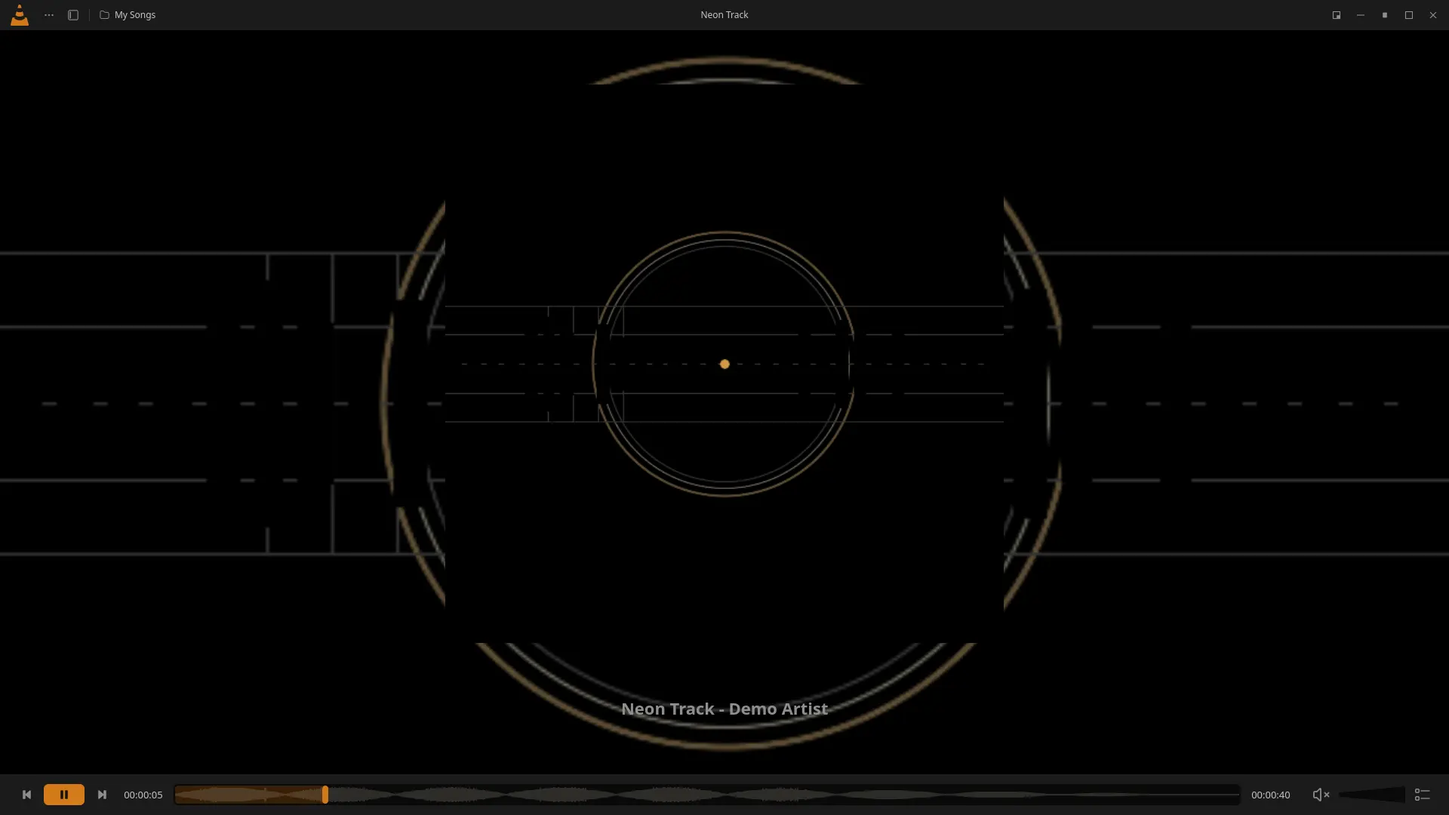
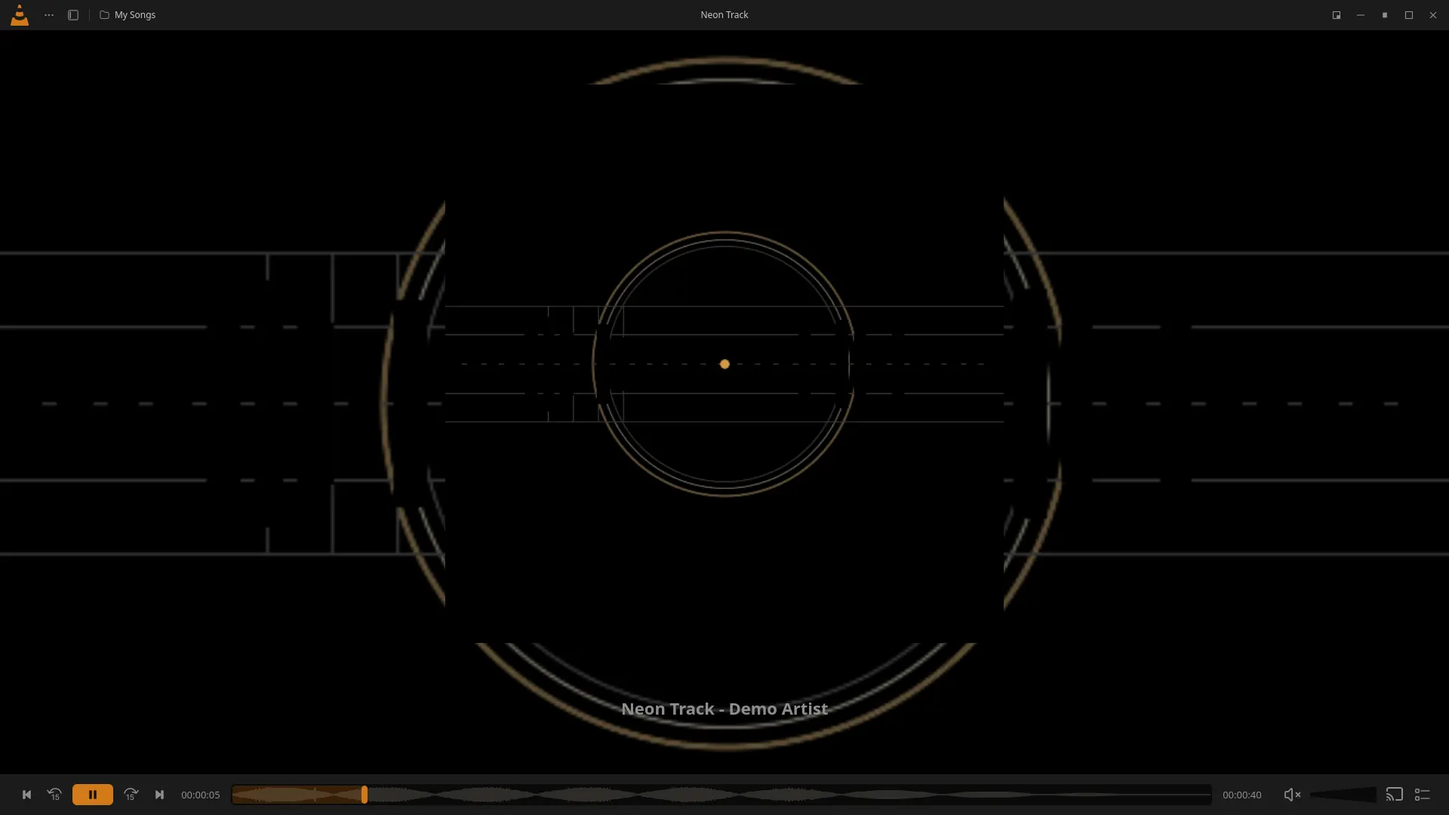
feat: show Figma music seek controls

Changed region(s): [[0.0312, 0.9472, 0.375, 1.0], [0.4062, 0.9778, 0.4688, 1.0], [0.8438, 0.9472, 0.875, 0.9778]]

diff --git a/qml/ControlBar.qml b/qml/ControlBar.qml
@@ -7,6 +7,14 @@ Rectangle {
     property var items: Theme.layoutList()
     property var renderedItems: {
         const result = items.slice()
+        if (player.hasMedia && !player.hasVideo) {
+            const previousIndex = result.indexOf("prev")
+            if (previousIndex >= 0 && result.indexOf("back15") < 0)
+                result.splice(previousIndex + 1, 0, "back15")
+            const playIndex = result.indexOf("play")
+            if (playIndex >= 0 && result.indexOf("fwd15") < 0)
+                result.splice(playIndex + 1, 0, "fwd15")
+        }
         let insertAt = result.indexOf("next")
         if (insertAt >= 0) insertAt += 1
         else insertAt = result.indexOf("play") >= 0 ? result.indexOf("play") + 1 : 0

diff --git a/qml/singletons/NeoTheme.qml b/qml/singletons/NeoTheme.qml
@@ -37,8 +37,8 @@ QtObject {
         frame: { label: "Next Frame", icon: "chevron-right" },
         back10: { label: "Backward 10s", icon: "rewind" },
         fwd10: { label: "Forward 10s", icon: "fast-forward" },
-        back15: { label: "Backward 15s", icon: "rewind" },
-        fwd15: { label: "Forward 15s", icon: "fast-forward" },
+        back15: { label: "Backward 15 seconds", icon: "backward-15-sec" },
+        fwd15: { label: "Forward 15 seconds", icon: "forward-15-sec" },
         bookmark: { label: "Bookmark", icon: "bookmark" },
         chapters: { label: "Chapters", icon: "list-video" },
         rightsidebar: { label: "Right Sidebar", icon: "sidebar-right" },

diff --git a/docs/figma-parity.md b/docs/figma-parity.md
@@ -62,7 +62,7 @@ The video canvas background uses Figma charcoal `#2C2B29` in both themes. Video 
 | Figma frame(s) and node IDs | Intent and shown states | VLC Neo components and current state | Automated evidence | Manual acceptance check |
 |---|---|---|---|---|
 | **Player** — `187:328`, `970:3308`, `970:3792`, `970:2703`, `970:4028`, `6261:15078`, `247:445` | Main playback surface and its seven visual states. The metadata names all seven `Player`; node `6261:15078` is the Home library dashboard and `187:328` shows the Playlists navigation state. | `Main.qml`, `HomeView.qml`, `LibraryPanel.qml`, `PlaylistsPanel.qml`, `NavigationRail.qml`, `TopBar.qml`, `TimelineBar.qml`, `ControlBar.qml`, `SidePanel.qml`, `ControlItem.qml`, `PlayButton.qml`, `SeekBar.qml`, `ConeVolume.qml`, `ResumePill.qml`. Home opens a full library dashboard with Continue Watching video cards, indexed Listen Again music, and frequently visited indexed folders. Video cards use asynchronous VLC-decoded thumbnails and saved resume point/duration data; music cards show indexed cover art and open the selected track. The dashboard keeps the expanded rail, app title and home search toolbar while hiding playback controls. The persistent rail matches the Figma Home navigation labels and order: Home, Videos, Music, Network, Playlists, Recent and Add item. Selecting Home, Videos, Music, Playlists or Recent from the rail opens that view in a side pane beside the live player. The topbar Library control opens the Figma Home dashboard in that pane and toggles the entire rail and pane closed together, restoring the previous player or library context. The compact Home pane uses Figma-sized thumbnail rows for Continue Watching, Listen Again, visited folders and playlists. The dedicated expand action opens the full-page library, where the rail expands and the playback surface becomes the mini-player. Folder browsing remains available from the Videos library and file picker. Saved M3U, M3U8, PLS and XSPF files appear in a persistent Playlists pane; it can search, sort, change row density and play an entry. Its width scales with the player window to retain the Figma proportion from the default size to the 1920 px reference frame. The pane stays beside the live video, matching the layout in node `187:328`. The rail scales up to 210 px on wide windows, matching the folder-browser state in node `970:3308`. The browser toggles between the Figma five-column poster grid (`970:2703`) and four-column file list (`970:3792`); the mini-player moves to the lower-right in grid mode and lower-left in list mode, and grid thumbnails show saved/current playback progress. Opening a library view replaces the playback surface with a full-width local folder browser and hides the bottom transport bar; video files load asynchronous VLC-decoded thumbnails in the grid, the live video frame moves into a floating player card, and search filters filenames. Rail, track-picker, settings-panel, transport and icon controls support Tab focus and Space/Return activation with visible focus styling. The timeline and transport now share a single 54 px footer row, with the seek bar between Next and Volume; elapsed and duration labels are 64 px at desktop size, 48 px in compact windows and hidden in 320–399 px PiP while seeking remains available. This follows the one-row composition in Figma node `247:445`; preexisting saved layouts that included `time`, `seek` or `length` are migrated out of the movable control list. Compact windows retain reduced spacing. The seek bar supports Tab focus, Left/Right seeking and Home/End jumps, subtitle cue lookup, asynchronous local-video thumbnails and an audio waveform for local media. VLC decodes both off the UI thread, limited to two workers and 64 admitted thumbnail responses, with results held in a 16 MiB LRU cache; `bounded_image_cache_test` verifies the configured cost ceiling and least-recently-used eviction. Closing the UI cancels worker subprocesses and drains queued decoding before Qt image plugins tear down. Waveform extraction times out after 20 seconds on slow files. Track-picker geometry follows its button anchor and stays within the window when resized. The Video side panel previews the current frame as Original, Sepia, Invert, Posterize, Old movie, Gaussian blur, Sharpen, VHS and Grain; one VLC-decoded frame feeds all nine previews asynchronously through the bounded thumbnail cache. Selecting a tile updates VLC’s live `video-filter` chain and preserves unrelated filters. Focused real-VLC coverage confirms all nine previews load and the four additional filters apply while preserving the picture-adjustment filter. PiP switches to a compact 16:9 window, keeps its title clear at 320×180, shows only exit and quit in the top bar, requests always-on-top through Qt and additionally pins it through Hyprland, and restores the prior size and position (or maximized state) when the PiP exit button is clicked. Plain video playback hides the navigation rail and aligns the top and bottom bars to the left edge, matching `247:445`; Home, library and side-panel states show the rail. An idle folder browser omits the mini-player, matching `970:4028`. The TopBar uses the onboarding chrome layer only for the non-preview welcome/shortcut steps; in the theme preview and normal player it remains under `keyCatcher`, where its left inset accounts for the navigation rail. Smoke asserts both the 18 px theme-preview inset and the rail-width offset on the Playlists screen, covering the previous cross-parent anchor warning. The seven Player nodes listed here have now been compared at 1920×1080. Figma icon aliases are now checked against the canonical SVG resources directly: the icon test opens every alias target from the Figma resource bundle and compares its rendered pixels with the alias output; all 207 checksum-manifest entries (206 SVGs plus the index) match the pinned export commit. **Partial.** smoke coverage now verifies hover colors and focus rings for the transport and all 25 optional controls. Review artwork and waveform quality across varied real media, and always-on-top behavior under Hyprland. F11 now reaches a 1920×1080 fullscreen surface under Metacity on Xvfb; moving to the bottom edge reveals the timeline and controls, and exiting restores the 1120×680 window. A live XCB run on the 1920×1080 eDP-1 display confirmed fullscreen entry and tested both fullscreen-control preferences: controls stay visible when enabled; when disabled, chrome hides and a bottom-edge pointer event reveals it with the single-row 54 px footer. The toolbar layout was compared with Figma node `247:445`; its rail-free player frame, title bar and lower controls align. The one-hour test capture confirms that a ten-minute fade remains visible across the full timeline. A focused run on [Thoughtness.ogg](https://commons.wikimedia.org/wiki/File:Thoughtness.ogg), a 46-second CC0 song, loaded and displayed its varied musical waveform in VLC. A separate ten-minute FFmpeg-generated MP3 with five known amplitude sections displayed the expected quiet, loud, silent, medium and loud blocks; additional music genres remain to review. Fullscreen edge-reveal on a real display is now covered. | Smoke checks the timeline slot between Next and Volume inside the 54 px footer, its keyboard focus and Left/Right seeking, Home to start, End to playback end, pointer hover on the visible Player timeline requesting and decoding a local-video preview, asynchronous waveform decoding, and a one-hour audio waveform with a ten-minute fade. At 560×340 it also checks the compact labels, seek width and keyboard navigation; at 320×180 PiP it checks labels collapse while seeking remains enabled. Focused offscreen probes independently pass at 560×340 (`compact=true`, keyboard focus and Right seek beyond 5 s) and 320×180 PiP (transport/seek remain enabled and inside the window). The Light sidebar density probe decodes all 15 local thumbnails and reports 15 ready entries at 1920×1080 (`sidebarLayout=15/384/true`, `ready=15`; about 18 seconds). It also checks Home shelves, search and sort, compact-card mode, video-card playback, persisted resume progress, responsive layout and a decoded thumbnail at 1920×1080, playback-frame rail hiding and chrome alignment, an idle full-width folder browser without the mini-player, library indexing, playback, duration, next item and pause/resume. It focuses and activates video/recent side navigation, checks full-page folder browsing through the dedicated expand action, hidden bottom transport controls, the live mini-player and filename search, verifies a VLC-decoded folder thumbnail, toggles grid/list layout and mini-player corner placement at 1120 and 1920 px, saves an M3U8 into the persistent playlist folder, reopens the playlist view, filters a playlist name and verifies density/sort/width controls. It verifies PiP shrinks the window to 320×180 and restores its exact prior geometry. At 1120 and 1920 px it checks the rail and Playlists pane preserve their combined width ratio. It also checks popup dismissal/repositioning, clicks the Sepia and Original video-effect tiles while preserving the active picture-adjust filter, applies Gaussian blur, Sharpen, VHS and Grain through VLC while retaining adjustment, and waits for all nine asynchronous effect previews to load, and captures dark, light, compact, settings, timeline, expanded-navigation and Home/library/playlist states. The thumbnail provider smoke also submits 30 simultaneous requests (above its 24-job bound) and checks that every image eventually decodes without an error.| The refreshed [`player.webp`](screenshots/player.webp) is a 1920×1080 capture using the attributed MDN CC0 flower video; its timeline and transport share one 54 px footer row. At 1920×1080, visual comparisons now cover all seven listed Player nodes: `187:328` (playlist pane), `970:3308` (folder browser), `970:3792` (compact file list), `970:2703` (poster grid), `970:4028` (idle browser), `6261:15078` (Home) and `247:445` (player with hidden rail). The fresh 110-item compact-list capture matches node `970:3792` in four-column layout, 44 px row pitch, small decoded thumbnails and lower-left mini-player placement. A fresh comparison of node `970:2703` with the latest `folder-browser-grid-1920.png` confirms the 1920×1080 viewport, 210 px rail, header/tool row, five-column card sizing and lower-right mini-player placement. The smoke fixture contains only two generated clips rather than the reference’s 110 named episodes and poster artwork, so content-level poster parity remains open. The `187:328` playlist pane and bottom controls were also checked at 1920×1080 with the pointer revealing the controls; the combined rail and pane width follows the Figma proportion. The fullscreen toolbar was compared with node `247:445` during a live 1920×1080 XCB run on eDP-1; both fullscreen preference states and bottom-edge reveal were verified. XCB captures at 1920×1080 show the playlist Search tooltip on hover and a one-pixel accent focus ring on a rail button; the earlier 1120×680 capture shows the Playback Settings tooltip and focus ring. The full smoke run verifies hover colors and focus rings for the transport and all 25 optional controls; VLC-backed actions are exercised for Favorite, Thumbnail, Properties, Bookmarks and Replay. A focused run loaded all nine effect previews from the public [MDN CC0 flower clip](https://interactive-examples.mdn.mozilla.net/media/cc0-videos/flower.mp4); [`video-effects-flower.webp`](screenshots/video-effects-flower.webp) records the color-rich live frame and distinct effect tiles. Remaining visual checks: always-on-top behavior under Hyprland, plus waveform rendering on additional long-form tracks and genres. A live PiP run on the Cinnamon/Muffin desktop exposed `_NET_WM_STATE_ABOVE` and placed the 480×270 window at the expected lower-right corner. Hyprland-specific pinning still needs verification. |
-| **Player - Music** — `4767:23726`, `4778:25123` | Audio-focused player with artwork, “My Songs”, track title and a continue-watching state. | `MusicView.qml`, `LibraryPanel.qml`, `src/media_library.*`, `Main.qml`. Audio files from indexed folders are scanned asynchronously; TagLib reads title, artist, album, genre, duration and embedded cover art. SQLite persists the catalog and roots; case-folded search spans tags and file paths. Tracks, albums, artists and genres are browseable; opening an album, artist or genre lists its tracks. Folder removal and full catalog clearing remove database entries and unreferenced cached art. On the 1920×1080 Figma frame the sharp cover is 740×740 px, with a 72 px title gap and 22 px muted label; the cover scales down in compact windows. Title and artist share one line, with a darkened, full-window blurred copy of the cover behind the sharp artwork. The top bar shows “My Songs” during audio playback; clicking it toggles a 280–380 px music sidebar while playback stays visible. At 1920 px, the Songs/My Songs pane is 377 px wide, matching the Figma frame. The audio-only control bar has the Figma visualizer menu, which caps its height to the available window and scrolls its options in compact layouts. Its choices persist VLC's `audio-visual` and `effect-list` options and update the active VLC audio output, with Waveform mapped to VLC's `vuMeter` effect. **Partial.** A direct browser inspection confirms both Figma screen frames are flattened image fills; the circular visualization is part of the reference artwork, not an editable vector layer. The current `music.webp` is refreshed from the latest full smoke capture. Its layout was compared at 1920×1080: the 740 px square cover, 72 px title gap, one-row footer and metadata placement align. The local test track and artwork differ from the reference image. The shipped VLC visualizer remains live and user-selected, but uses VLC's native rendering style. | Smoke indexes tagged local audio, confirms metadata/artwork, case-insensitive tag search, filename fallback for missing tags, album grouping, artists/genres/videos, persistence after relaunch, and clearing database rows and artwork. A live offscreen run indexed the local music folder, captures the sidebar beside audio playback, confirms the second click closes it, checks that the displayed item count follows visible music tracks rather than indexed files, and checks the 740 px Figma artwork, title gap and label typography plus compact resizing. The visualizer popup tests all four effect mappings, Disabled, trigger toggling and outside-click dismissal. A focused VLC run confirmed all four modes create the active visualizer output during playback and Disabled stops it. A compact-window runtime check confirmed entering the 180 px PiP layout dismisses the transient popup and constrains its scroll viewport to the available height. A focused real-VLC offscreen capture confirms the blurred cover backdrop renders behind the sharp artwork. The music-player smoke capture waits for asynchronous waveform extraction and uses a time-varying audio fixture with the authored dark visualizer-style cover in `tests/fixtures/music-cover.png`; its screenshot visibly contains the decoded waveform bars.| Captures of both Figma nodes were reviewed in the local browser. The 1920×1080 music-library sidebar was compared against node `4778:25123`; the 740 px cover, 72 px title gap and muted label size match the Figma measurements, and the waveform is visible after decoding. The sidebar count now tracks visible music-model rows; the real-VLC scenario confirms it shows `3 items` for three audio tracks alongside a cover image, matching the model rather than the four indexed files. A refreshed 1920×1080 real-VLC capture shows the authored visualizer-style cover fixture and its decoded waveform. The Figma artwork is a flattened raster composition, so its baked circular visualization cannot be independently compared with VLC's native live visualizer. Separate VLC Neo integration runs read title/artist/album/genre from MP3, FLAC, Ogg and M4A, used the filename for an untagged WAV, and removed stale paths after a media rename and removal on rescan. Embedded covers from MP3, FLAC and M4A produced the same SHA-256 as the source image. A local run indexed 5,000 M4A paths: adding the root returned in 14 ms and the scan completed in under 9 seconds on this machine. |
+| **Player - Music** — `4767:23726`, `4778:25123` | Audio-focused player with artwork, “My Songs”, track title and a continue-watching state. | `MusicView.qml`, `LibraryPanel.qml`, `src/media_library.*`, `Main.qml`. Audio files from indexed folders are scanned asynchronously; TagLib reads title, artist, album, genre, duration and embedded cover art. SQLite persists the catalog and roots; case-folded search spans tags and file paths. Tracks, albums, artists and genres are browseable; opening an album, artist or genre lists its tracks. Folder removal and full catalog clearing remove database entries and unreferenced cached art. On the 1920×1080 Figma frame the sharp cover is 740×740 px, with a 72 px title gap and 22 px muted label; the cover scales down in compact windows. Title and artist share one line, with a darkened, full-window blurred copy of the cover behind the sharp artwork. The top bar shows “My Songs” during audio playback; clicking it toggles a 280–380 px music sidebar while playback stays visible. At 1920 px, the Songs/My Songs pane is 377 px wide, matching the Figma frame. The audio-only control bar has the Figma visualizer menu, which caps its height to the available window and scrolls its options in compact layouts. Its choices persist VLC's `audio-visual` and `effect-list` options and update the active VLC audio output, with Waveform mapped to VLC's `vuMeter` effect. The audio-only transport inserts Figma’s 15-second backward and forward buttons around Play, unless the user already placed those controls in their saved layout; both use the exact exported SVGs and invoke VLC seeking. Video playback keeps the normal three transport buttons. **Partial.** A direct browser inspection confirms both Figma screen frames are flattened image fills; the circular visualization is part of the reference artwork, not an editable vector layer. The current `music.webp` is refreshed from the latest full smoke capture. Its layout was compared at 1920×1080: the 740 px square cover, 72 px title gap, one-row footer and metadata placement align. The local test track and artwork differ from the reference image. The shipped VLC visualizer remains live and user-selected, but uses VLC's native rendering style. | Smoke indexes tagged local audio, confirms metadata/artwork, case-insensitive tag search, filename fallback for missing tags, album grouping, artists/genres/videos, persistence after relaunch, and clearing database rows and artwork. A live offscreen run indexed the local music folder, captures the sidebar beside audio playback, confirms the second click closes it, checks that the displayed item count follows visible music tracks rather than indexed files, and checks the 740 px Figma artwork, title gap and label typography plus compact resizing. The visualizer popup tests all four effect mappings, Disabled, trigger toggling and outside-click dismissal. A focused VLC run confirmed all four modes create the active visualizer output during playback and Disabled stops it. A compact-window runtime check confirmed entering the 180 px PiP layout dismisses the transient popup and constrains its scroll viewport to the available height. The music smoke checks the exact `Previous, −15s, Play, +15s, Next` order and exported icon names. Focused real-VLC playback probes confirm the forward control seeks to about 16 s, the backward control returns to about 1 s, and video mode does not inject either button. A focused real-VLC offscreen capture confirms the blurred cover backdrop renders behind the sharp artwork. The music-player smoke capture waits for asynchronous waveform extraction and uses a time-varying audio fixture with the authored dark visualizer-style cover in `tests/fixtures/music-cover.png`; its screenshot visibly contains the decoded waveform bars.| Captures of both Figma nodes were reviewed in the local browser. The 1920×1080 music-library sidebar was compared against node `4778:25123`; the 740 px cover, 72 px title gap and muted label size match the Figma measurements, and the waveform is visible after decoding. The sidebar count now tracks visible music-model rows; the real-VLC scenario confirms it shows `3 items` for three audio tracks alongside a cover image, matching the model rather than the four indexed files. A refreshed 1920×1080 real-VLC capture shows the authored visualizer-style cover fixture and its decoded waveform. A fresh local capture confirms the 15-second seek buttons sit around Play at the same 1920×1080 positions as the Figma frame, using the `backward-15-sec` and `forward-15-sec` exports. The Figma artwork is a flattened raster composition, so its baked circular visualization cannot be independently compared with VLC's native live visualizer. Separate VLC Neo integration runs read title/artist/album/genre from MP3, FLAC, Ogg and M4A, used the filename for an untagged WAV, and removed stale paths after a media rename and removal on rescan. Embedded covers from MP3, FLAC and M4A produced the same SHA-256 as the source image. A local run indexed 5,000 M4A paths: adding the root returned in 14 ms and the scan completed in under 9 seconds on this machine. |
 | **Player - hide UI** — `3328:11554` | Video view with interface controls hidden. | `Main.qml`, `TopBar.qml`, `ControlBar.qml`. Ctrl+H hides the top bar, navigation rail, home screen and bottom controls, including when no media is loaded. Moving to the top edge reveals the header; moving to the bottom edge reveals transport controls; returning to the center hides them again. The Figma frame shows a decorative pixel-art cat as its video content; Neo leaves the active video visible. **Implemented.** | Smoke verifies the empty and playing states, checks top- and bottom-edge reveal plus center hide, and captures a 1920×1080 frame with OSD and title overlays disabled. The test assertions confirm all chrome flags are hidden after the pointer returns to the center, and that Ctrl+H suppresses its confirmation toast when hiding the interface.| Compared node `3328:11554` in the connected Figma browser. The 1920×1080 Xvfb/XCB capture shows the Sintel trailer while the title bar, controls and toast are absent. Direct comparison with the Figma frame confirms the full-screen hidden-chrome state; the visible difference is the active media content (Sintel versus Figma’s pixel-art cat). Sintel attribution and CC BY 3.0 are recorded in the README. |
 | **Player - Light** — `2425:13624` | Light player with a narrow folder list beside the live video. | `NeoTheme.qml`, `Main.qml`, `TopBar.qml`, `LibraryPanel.qml`. Clicking the video folder chip opens a responsive folder sidebar while video remains in the main surface; clicking it again closes the sidebar. The frame was compared in the browser at 1920×1080. Figma’s side pane measures 377 px; Neo now uses the same 19.635% proportion at standard and wide sizes, with a 220 px minimum for compact windows. Compact rows use small VLC-decoded video thumbnails even when the full browser is in grid mode; the sidebar no longer lets grid-card sizing overflow its 38 px rows. The compact folder header now uses a breadcrumb row followed by an item-count and sort/view/search toolbar; Play folder and Queue all stay in the full folder browser, and the existing pin action remains available in the compact toolbar. The toolbar and first file row were visually rechecked against the Figma frame after adjusting compact-only spacing. Search starts as an icon and expands into a field on demand; the full-width browser retains its search field. The light rail and title bar use Figma A3 at 75% opacity over the charcoal canvas; the sidebar uses B1 at 80%. [`player-light-sidebar.webp`](screenshots/player-light-sidebar.webp) shows the current implementation. **Partial.** the poster artwork is dynamic media content. A fresh 1920×1080 comparison measures the pane at 377 px; focused responsive probes measure 262 px at 1333 px and 220 px at 560×340, leaving 310 px for video in the compact window. Landscape, 4:3, portrait and square video rows stay within their fixed thumbnail bounds. | Full smoke verifies sidebar visibility, responsive width, decoded video thumbnails, collapsed/expanded search and filtering, pinning and navigation, closure, and compact-window usability. The latest completed CI run (`40811644836`) passed 849/849 real-VLC smoke assertions before this width adjustment; focused real-VLC geometry probes after the change verify 377/262/220 px at 1920/1333/560 px. The compact toolbar stays visible while Play folder and Queue all remain hidden there.| Reopened Figma node `2425:13624` in the authenticated browser and compared it with the local capture: the rail and pane widths, header and file-row start positions align. A fresh lossless XCB capture sampled the sidebar at RGB 194,194,193, matching Figma at the same light-gray panel fill; its blank video canvas sampled RGB 44,43,41, matching Figma charcoal `#2C2B29`. The earlier one-channel differences came from comparing against a lossy WebP capture, so no theme-token change was needed. A fresh fixture comparison contains 15 rows and reports 15/15 visible thumbnails ready; its test-pattern artwork differs from Figma. The refreshed 560×340 [`player-light-sidebar-compact.webp`](screenshots/player-light-sidebar-compact.webp) capture confirms a 220 px pane, 310 px video area, and visible compact toolbar and search. |
 | **Player - customize** — `2107:5604`, `2160:6137`, `2160:6564`, `2160:7005`, `2160:7437`, `2160:7869`, `6587:19923`, `2160:8301`, `2160:8732` | Nine separate visual states: the palette, multiple saved control-bar layouts with already-used items removed from the palette, and a folder-browser state with the customized bar. Figma frame captures for all nine have now been inspected; the last state (`2160:8732`) is the folder browser, not an open customization dialog. | `CustomizeDialog.qml`, `ControlItem.qml`, `ControlBar.qml`, `TimelineBar.qml`, `NeoTheme.qml`, `MediaPropertiesDialog.qml`. Palette has 30 supported Figma controls in a 9-column grid; the unsupported HDR action leaves one reserved empty slot at its Figma position, while Playlist Name displays the opened playlist filename; the 1060×666 dialog and compact tiles align with node `2107:5604`. At short window heights, the content scrolls above a fixed footer so profile actions stay reachable. The fixed timeline, elapsed time and duration stay outside the movable palette. Previously saved `time`, `seek` and `length` controls are filtered out during layout reads, preserving the rest of each user's layout. Previous, Play and Next remain fixed on the bar, cannot be removed, and cannot be dragged directly; other controls can be added, reordered and removed around them. HDR remains omitted because VLC Neo has no corresponding working action. Reset/Save/Cancel are separate. Implemented controls include persistent favorites, seek-thumbnail toggle, replay, media properties, bookmarks and chapter access, plus 15-second skips, metadata labels, playlist/home/settings actions and quit. New installs use the Figma transport, fixed timeline and audio/subtitle/settings/queue layout; extra Neo controls remain available in the palette. Named profiles save and restore theme, accent, auto-hide behavior, window startup preference, control layout and a curated set of supported VLC playback, decoding, buffering, audio/video filter and subtitle appearance options. Below 720 px, metadata controls and leading flexible space collapse so playback controls flow from the left; below 400 px, the bar retains Previous, Play, Next, volume and fullscreen. **Partial.** | Full smoke verifies the 30 active controls, the fixed Figma HDR slot and Playlist Name position, keyboard focus and activation of transport/icon controls, focus-fill and accent-ring assertions for palette/bar tiles, Space add/remove actions, fixed transport controls, compact toolbar reflow at 560 px and 320 px, dynamic palette membership, legacy-layout migration, drag add/reorder/remove, cancel, action behavior and a customized folder-browser layout. A focused dialog run saves a named profile, scrolls to its row and activates Apply, then confirms that buffering, hardware-decoder, video-filter, subtitle-style and playback options are restored; proxy-password injection is rejected. The corrected full smoke passed all 668 checks with the rebuilt `build-fidelity2` plugin, including the shortcut-reset assertion and recording scenario under full-suite load. Focused palette checks verify transparent/borderless idle tiles, Figma-colored pointer hover, and the accent focus ring.| Rendered and compared local 1920×1080 captures for the saved-layout states in `2160:6137`, `2160:6564`, `2160:7005`, `2160:7437`, `2160:7869`, `6587:19923` and `2160:8301`. The `2160:8732` folder-browser state was also compared in the connected Figma browser; rail and pane widths, titlebar, timeline and transport align. Its 15 named media items and pixel-art video differ from the two generated fixture files and test video in the local capture. The freshly regenerated `customize.webp` matches node `2107:5604` with the unsupported HDR slot kept empty; the Quit VLC label now matches the reference: Figma palette items have no card outlines, so the idle local palette tiles are transparent and borderless. The pointer-hover fill uses `#191919`, matching Figma Button Variant2; focused tiles retain the accent outline. The smoke now pointer-targets the Settings, Queue, Audio, Subtitle and Play controls by object name; a focused real-VLC run at 1120×680 confirmed each reports its Figma hover fill and icon/accent color. The centered title now follows VLC media metadata, respects `qt-name-in-title`, and elides within its 42% width. Directly comparing Figma node `2160:6137` in the connected browser showed its media title centered in the titlebar; a focused VLC run confirmed the matching dynamic label and the fixed app-label fallback. The smoke pointer-targets Settings, Queue, Audio, Subtitle, Play, Previous and Next and checks the volume-mute hover in dark (`#191919`) and light (`#B3B3B3`) themes. A focused real-VLC run then appended each of the 25 optional icon controls to the default layout one at a time and verified its visible hover fill, one-pixel accent focus ring and focused hover surface; the smoke runner now repeats all 50 checks. Palette/bar tiles have their own focus-ring checks. |
